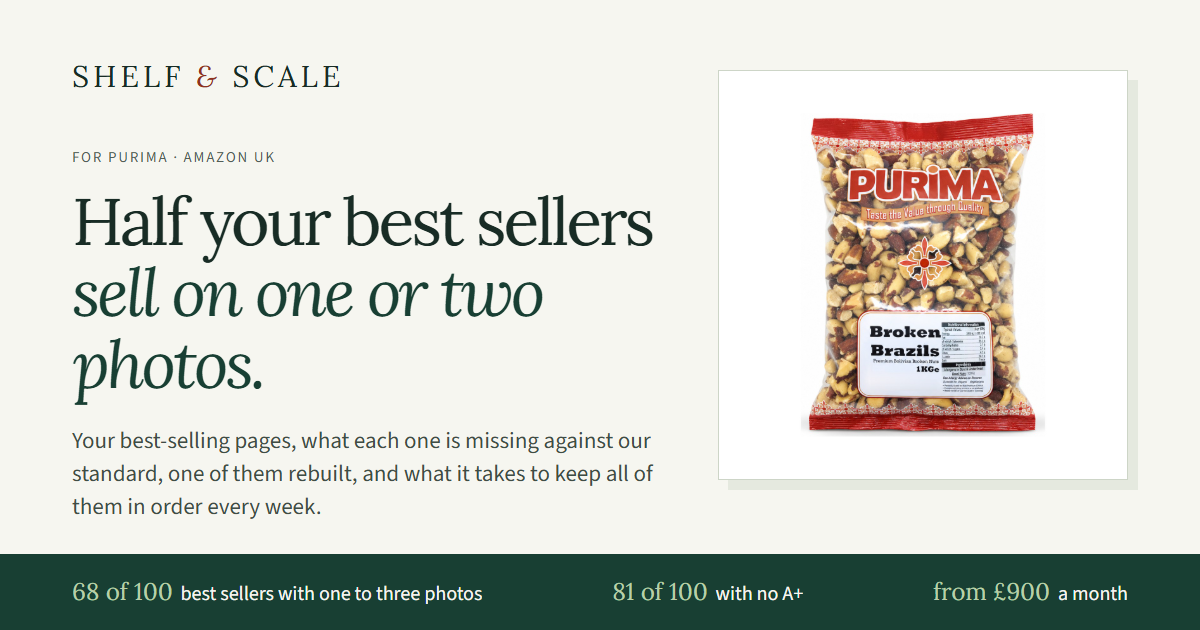
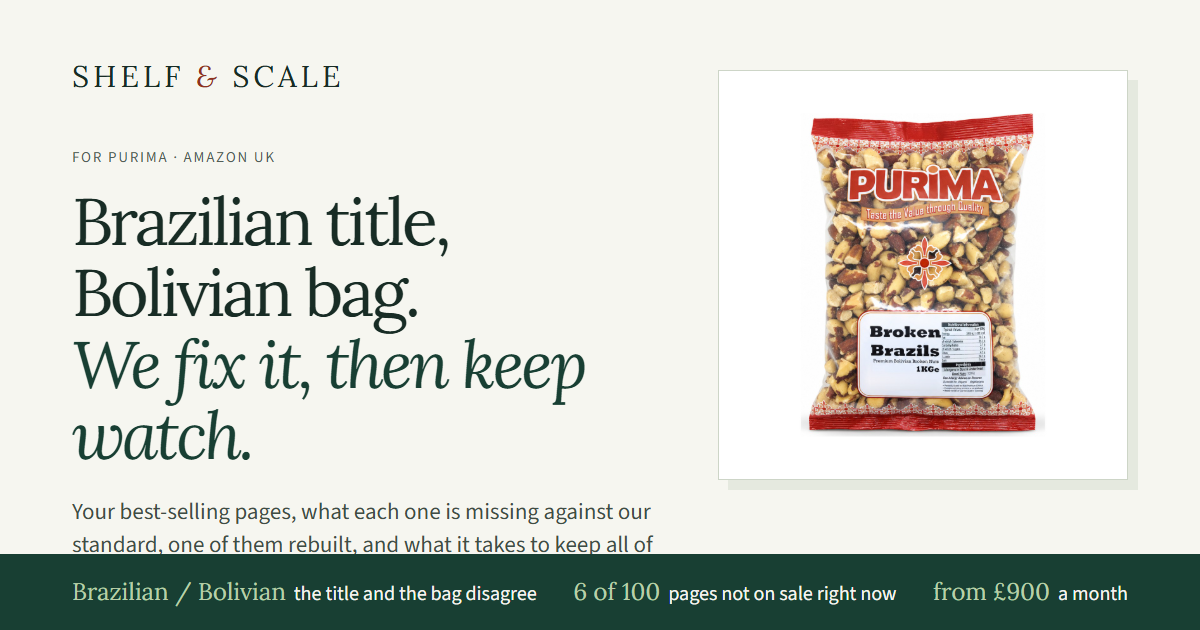
Purima: hero per 9 Oct rules (title/bag mismatch, no sales)

Changed region(s): [[0.0617, 0.3016, 0.555, 0.8746], [0.0617, 0.9048, 0.74, 0.9651]]

diff --git a/r/purima-care/index.html b/r/purima-care/index.html
@@ -7,7 +7,7 @@
   <meta name="robots" content="noindex,nofollow,noarchive">
   <meta property="og:type" content="website">
   <meta property="og:title" content="PURIMA on Amazon UK — a catalogue audit">
-  <meta property="og:description" content="600 pages on Amazon UK. Of the 100 that sell most, 68 carry one to three photos and 81 have no A+. Your best-selling pages against our standard, one rebuilt, and Catalogue Care from £900 a month.">
+  <meta property="og:description" content="600 pages on Amazon UK. One Brazil nut title says Brazilian where the bag says Bolivian, and six of the 100 pages we read are not on sale right now. Your pages against our standard, one rebuilt, and Catalogue Care from £900 a month.">
   <meta property="og:image" content="https://shelfandscale.com/r/purima-care/og.png">
   <meta property="og:url" content="https://shelfandscale.com/r/purima-care/">
   <meta name="twitter:card" content="summary_large_image">
@@ -31,12 +31,12 @@
   <section class="hero container" aria-labelledby="hero-title">
     <div class="hero-copy">
       <p class="eyebrow"><span class="eyebrow-line"></span> FOR PURIMA · AMAZON UK · A CATALOGUE AUDIT</p>
-      <h1 id="hero-title">Half your best sellers <em class="ln">sell on one or two photos.</em></h1>
-      <p class="hero-description">Amazon UK shows 600 PURIMA pages. Of the 100 that sell most, you hold the featured offer on all 94 that can be bought; 68 carry one to three photos, and 81 have no A+.</p>
+      <h1 id="hero-title">Brazilian title, Bolivian bag. <em class="ln">We fix it, then keep watch.</em></h1>
+      <p class="hero-description">We read 100 of your pages. A title says Brazilian, the bag Bolivian. Its only photo shows a 2022 best-before date. Six aren't on sale: want them back? We can.</p>
     </div>
     <ul class="tldr">
-      <li><span>What we found</span><div>Ten best sellers short of our standard, among them <b>photos showing a 2022 best-before date</b> and a weight-loss claim.</div></li>
-      <li><span>What we propose</span><div><b>Catalogue Care</b>: every page checked weekly, what we find fixed, pages rebuilt and new photos made monthly.</div></li>
+      <li><span>What we found</span><div>The Brazil nut title says <b>Brazilian</b>, the bag <b>Bolivian</b>; its only photo shows a 2022 best-before date.</div></li>
+      <li><span>Two ways we help</span><div><b>Fix what we found</b>, or <b>hand the catalogue to us</b>: every page checked weekly, no one in-house needed.</div></li>
       <li><span>What it costs</span><div><b>From £900 a month</b>, by live pages. Monthly, 30 days' notice, no minimum term.</div></li>
       <li><span>Next step</span><div>This audit is free. <b>Reply with a question</b>: about any page here, or the tier your catalogue falls in.</div></li>
     </ul>
@@ -48,7 +48,7 @@
       <div class="product-sheet">
         <div class="sheet-top"><span class="micro">BRAZIL NUTS · REBUILT</span><span class="sheet-number">B08W5DJS7P</span></div>
         <div class="packshot" style="height:auto;aspect-ratio:1224 / 1000;max-height:418px"><img src="img/brazil-main-hero-v5.jpg" width="1000" height="1000" alt="Your Broken Brazil Nuts 1 kg bag on white" fetchpriority="high"></div>
-        <div class="sheet-product"><span>PURIMA</span><h2>Broken Brazil Nuts, 1 kg</h2><p>467 ratings · 4.6 stars · 400+ bought in past month · £19.75</p></div>
+        <div class="sheet-product"><span>PURIMA</span><h2>Broken Brazil Nuts, 1 kg</h2><p>467 ratings · 4.6 stars · £19.75</p></div>
         <div class="sheet-checks"><span><i aria-hidden="true">✓</i> Same account</span><span><i aria-hidden="true">✓</i> Your price</span><span><i aria-hidden="true">✓</i> Every page checked weekly</span></div>
       </div>
       <div class="art-caption"><span class="micro">MAIN IMAGE</span><span>Your own bag on white, without the batch label</span></div>

diff --git a/r/purima-care/og.html b/r/purima-care/og.html
@@ -11,6 +11,6 @@ p{font-size:23px;line-height:1.45;color:#3f4d45;margin:24px 0 0}
 .bar{position:absolute;left:0;right:0;bottom:0;background:#183f33;color:#f6f6f0;display:flex;justify-content:space-between;align-items:center;padding:22px 72px;font-size:20px}
 .bar b{font-family:'Lora',serif;font-weight:400;font-size:24px;margin-right:8px;color:#b8cfa9}
 </style></head><body><div class="l"><div class="wm">Shelf <i>&amp;</i> Scale</div><div class="eyebrow">FOR PURIMA · AMAZON UK</div>
-<h1>Half your best sellers <em>sell on one or two photos.</em></h1><p>Your best-selling pages, what each one is missing against our standard, one of them rebuilt, and what it takes to keep all of them in order every week.</p></div>
+<h1>Brazilian title, Bolivian bag. <em>We fix it, then keep watch.</em></h1><p>Your best-selling pages, what each one is missing against our standard, one of them rebuilt, and what it takes to keep all of them in order every week.</p></div>
 <div class="card"><img src="img/brazil-main-v2.jpg"></div>
-<div class="bar"><span><b>68 of 100</b>best sellers with one to three photos</span><span><b>81 of 100</b>with no A+</span><span><b>from £900</b>a month</span></div></body></html>
+<div class="bar"><span><b>Brazilian / Bolivian</b>the title and the bag disagree</span><span><b>6 of 100</b>pages not on sale right now</span><span><b>from £900</b>a month</span></div></body></html>
